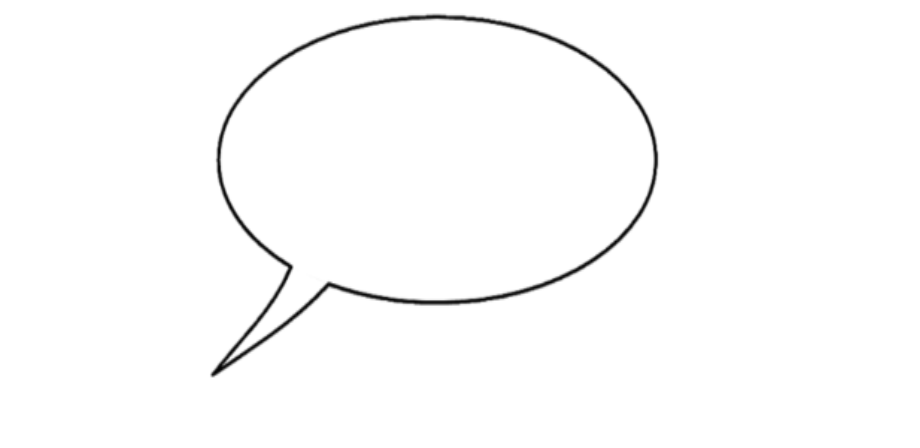
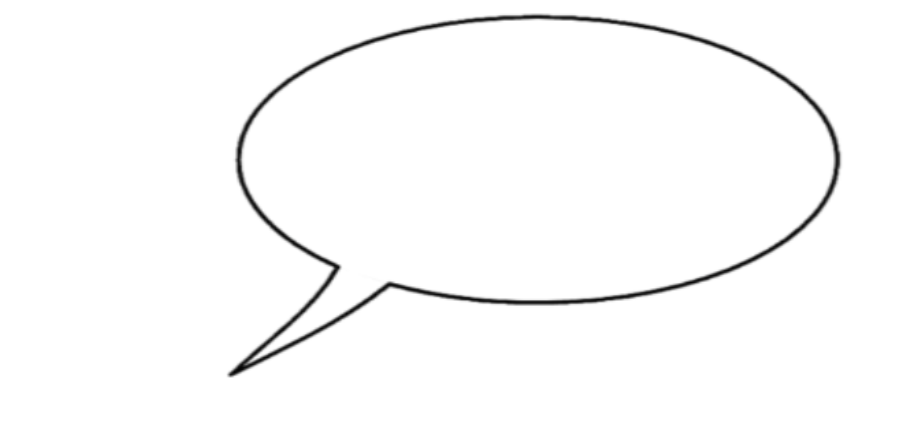
add text box formatting to make the robot speak

diff --git a/css/styles.css b/css/styles.css
@@ -1,3 +1,7 @@
+body {
+  background-color: red;
+}
+
 .robogearLine {
   display: none;
 }
@@ -7,6 +11,9 @@ img {
   max-height: 100%;
 }
 
-.textBox {
-  border: 2px solid black;
+#robotOutput {
+  position: absolute;
+  top: 37%;
+  left: 58%;
+  transform: translate(-50%, -50%);
 }

diff --git a/index.html b/index.html
@@ -33,6 +33,7 @@
           <img src="img/robogear.png" alt="Mr. Robogear">
         </div>
         <div class="col-lg-6 textBox">
+          <img src='img/word-bubble.png'>
           <div id="robotOutput">
           
           </div>
